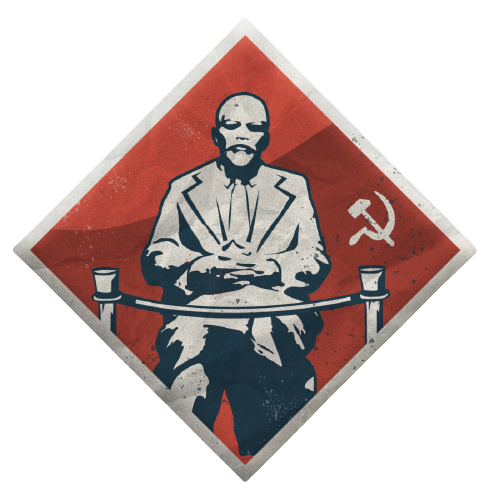
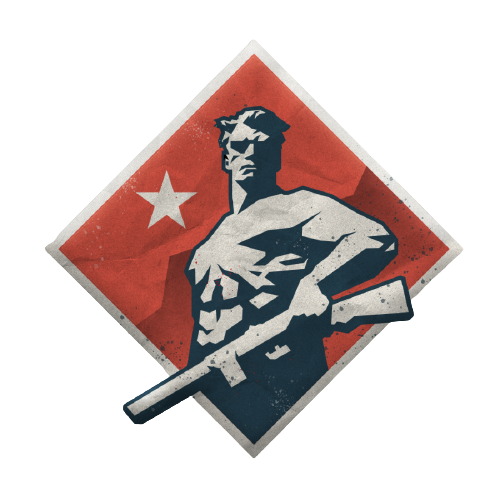
Updated the images for all the awards

diff --git a/templates/awards.html b/templates/awards.html
@@ -15,13 +15,13 @@
                     <div class="row">
                         <div class="col-lg-4 col-md-6">
                             <div class="card awards-card">
-                                <div class="card-header">
+                                <div class="card-header coloured">
                                     <h3>{{ awards_data[award][1] }}</h3>
                                 </div>
                                 <div class="card-body">
-                                    <img class="awards-image" src="../static/img/homepage/player.png" alt="players-image">
+                                    <img class="awards-image" src="../static/img/awards/{{ award }}.png" alt="players-image">
                                     <div class="card-text">
-                                        <h2 class="card-subtitle mb-2">NAME</h2>
+                                        <h2 class="card-subtitle mb-2">{{ awards_data[award][3] }}</h2>
                                         <p class="card-subtitle mb-2">DESCRIPTION</p>
                                     </div>
                                     <div class="d-grid gap-2">
@@ -33,13 +33,13 @@
                     {% elif loop.index0 % 3 == 1 %}
                         <div class="col-lg-4 col-md-6">
                             <div class="card awards-card">
-                                <div class="card-header">
+                                <div class="card-header coloured">
                                     <h3>{{ awards_data[award][1] }}</h3>
                                 </div>
                                 <div class="card-body">
-                                    <img class="awards-image" src="../static/img/homepage/player.png" alt="players-image">
+                                    <img class="awards-image" src="../static/img/awards/{{ award }}.png" alt="players-image">
                                     <div class="card-text">
-                                        <h2 class="card-subtitle mb-2">NAME</h2>
+                                        <h2 class="card-subtitle mb-2">{{ awards_data[award][3] }}</h2>
                                         <p class="card-subtitle mb-2">DESCRIPTION</p>
                                     </div>
                                     <div class="d-grid gap-2">
@@ -51,13 +51,13 @@
                     {% elif loop.index0 % 3 == 2 %}
                         <div class="col-lg-4 col-md-6">
                             <div class="card awards-card">
-                                <div class="card-header">
+                                <div class="card-header coloured">
                                     <h3>{{ awards_data[award][1] }}</h3>
                                 </div>
                                 <div class="card-body">
-                                    <img class="awards-image" src="../static/img/homepage/player.png" alt="players-image">
+                                    <img class="awards-image" src="../static/img/awards/{{ award }}.png" alt="players-image">
                                     <div class="card-text">
-                                        <h2 class="card-subtitle mb-2">NAME</h2>
+                                        <h2 class="card-subtitle mb-2">{{ awards_data[award][3] }}</h2>
                                         <p class="card-subtitle mb-2">DESCRIPTION</p>
                                     </div>
                                     <div class="d-grid gap-2">

diff --git a/views/awards.py b/views/awards.py
@@ -100,6 +100,15 @@ class Awards(MethodView):
                 # its key to corresponding key in the awards dict.
                 if awards_data[player_key][award_key] > awards_dict[award_key][0]:
                     awards_dict[award_key][0] = award_value
-                    awards_dict[award_key][2] = player_key
+                    awards_dict[award_key][3] = player_key
 
+        # for index, award in enumerate(awards_dict):
+        #     if index % 3 == 0:
+        #         print(award)
+        #         print()
+        #     elif index % 3 == 1:
+        #         print()
+        #         print(award)
+        #     elif index % 3 == 2:
+        #         print(award)
         return awards_dict
